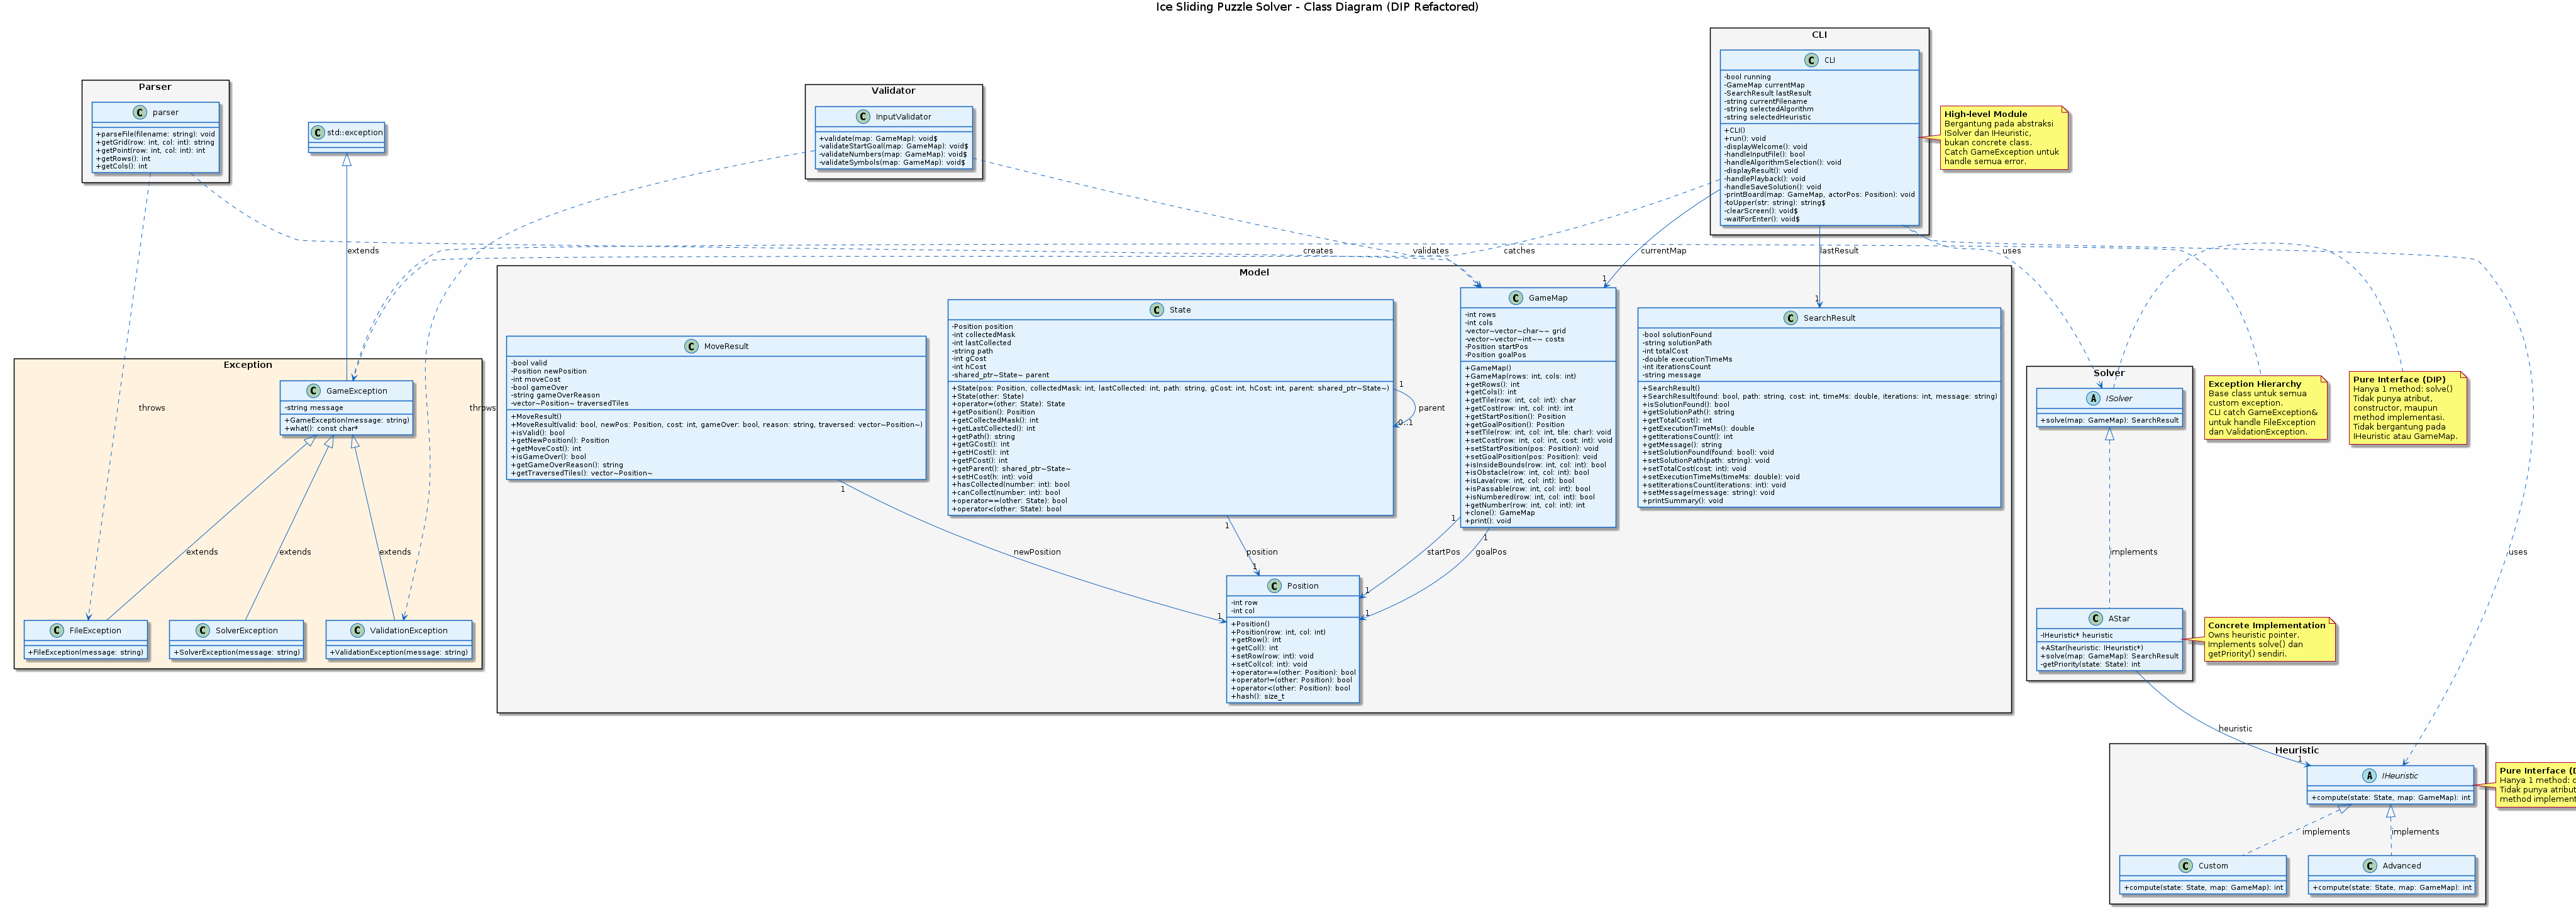
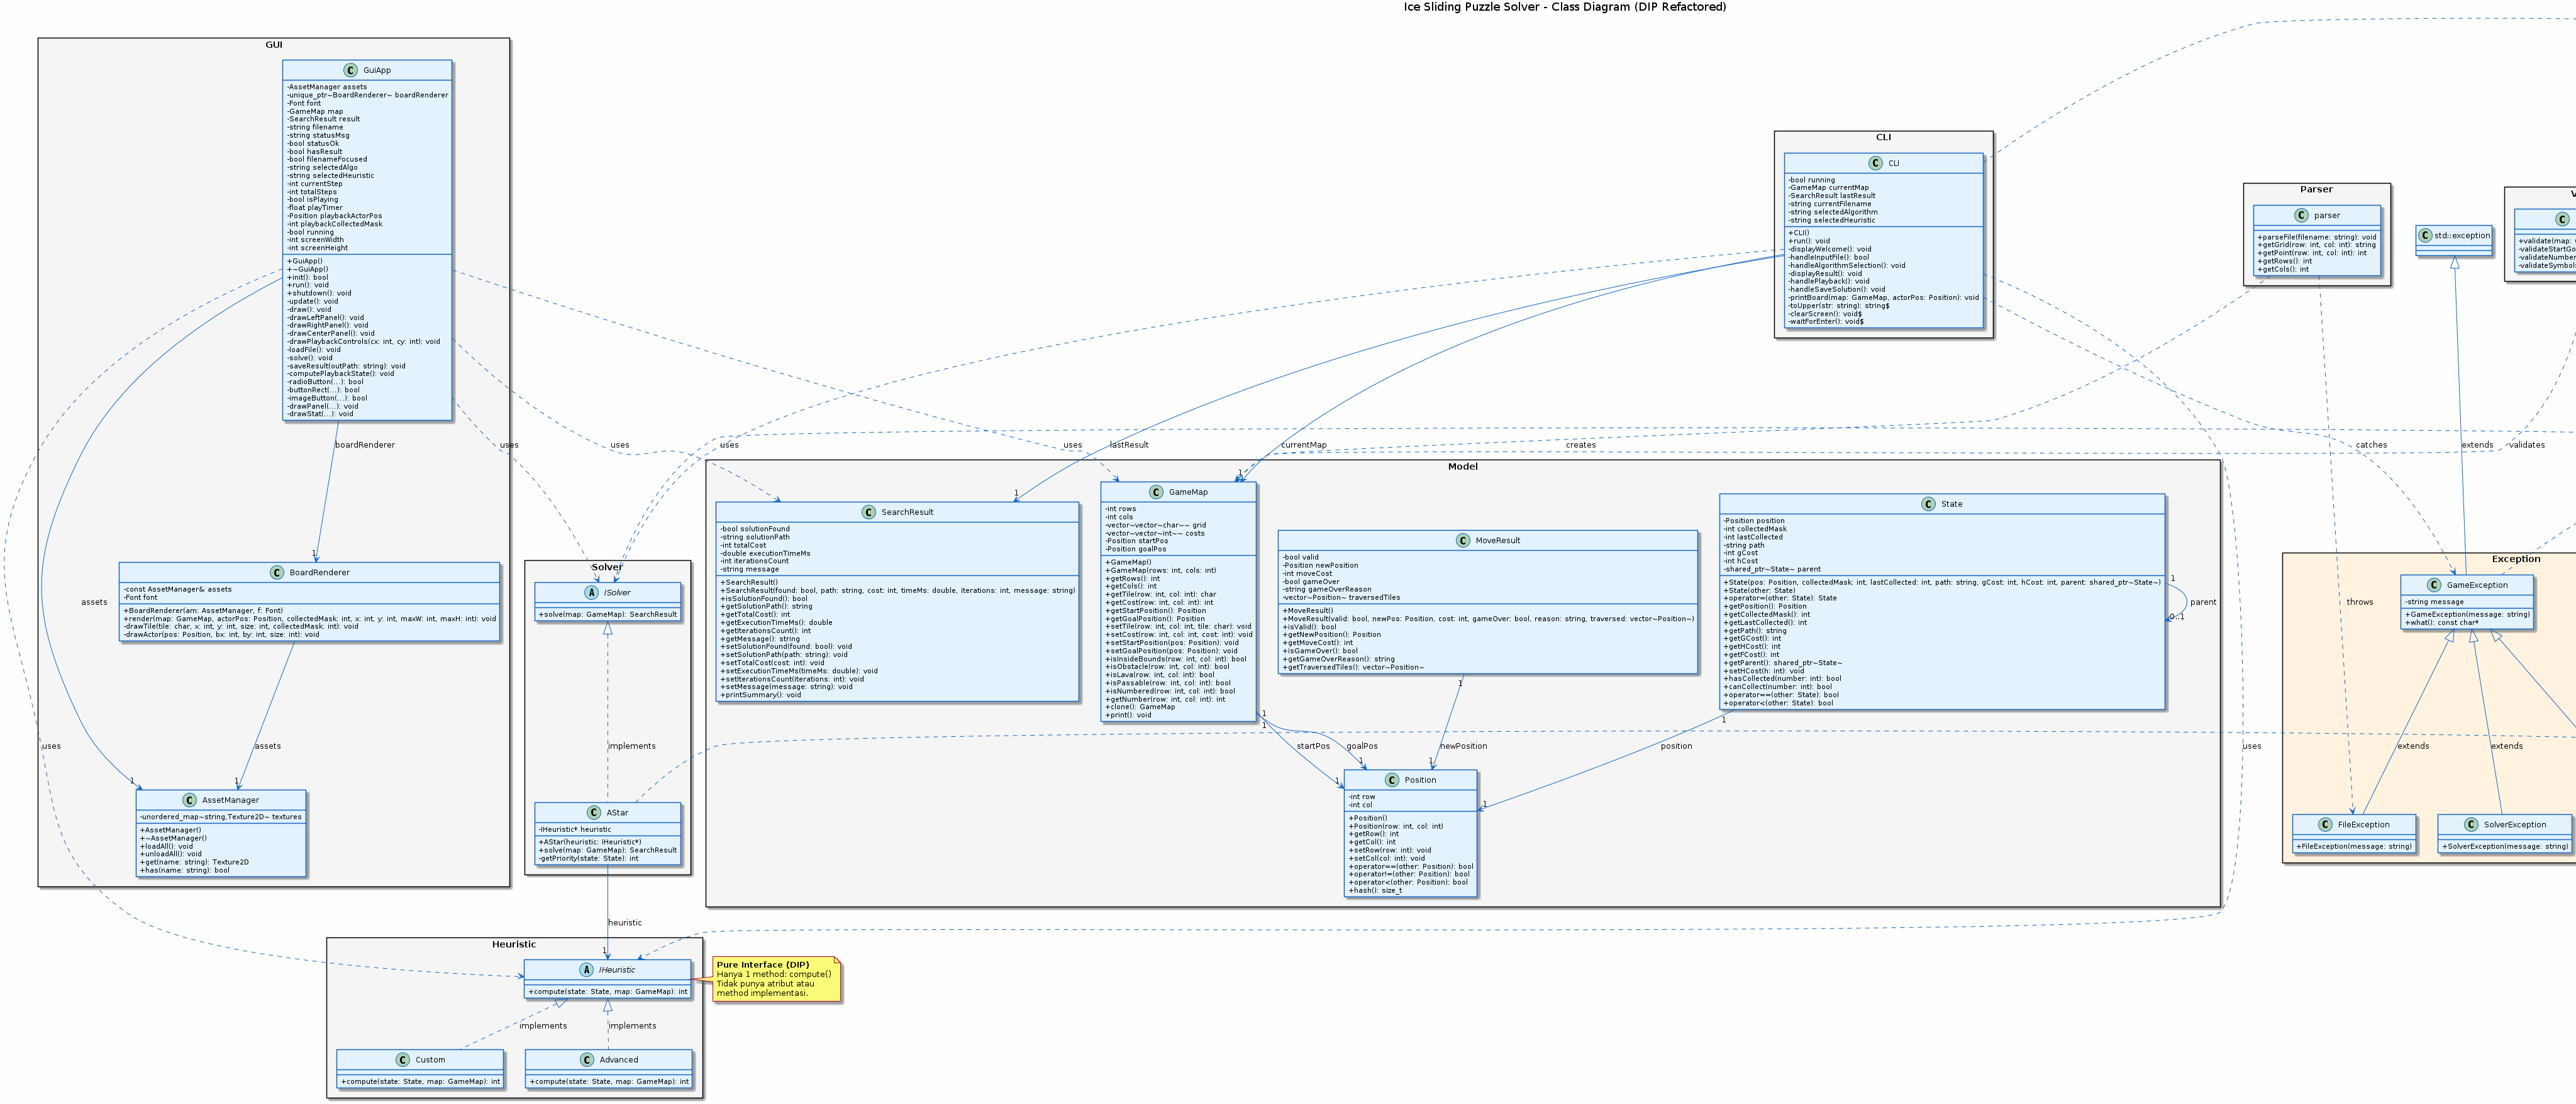
fix: bug save gagal ketika folder save tidak ada (sekarang auto create folder save)

diff --git a/src/utils/SolutionSaver.cpp b/src/utils/SolutionSaver.cpp
@@ -3,6 +3,7 @@
 #include "model/State.hpp"
 #include <fstream>
 #include <iostream>
+#include <filesystem>
 
 static void writeBoard(std::ofstream& file, const GameMap& map, const Position& actorPos, int collectedMask) {
     for (int i = 0; i < map.getRows(); ++i) {
@@ -34,6 +35,11 @@ void SolutionSaver::save(const SearchResult& result, const GameMap& map,
                          const std::string& filename) {
     std::string actualPath = filename;
     if (actualPath.find('/') == std::string::npos && actualPath.find('\\') == std::string::npos) {
+        std::string folder = "saves";
+        if (!std::filesystem::exists(folder)) {
+            std::filesystem::create_directory(folder);
+            std::cout << ">> Folder 'saves' dibuat untuk menyimpan solusi.\n";
+        }
         actualPath = "saves/" + actualPath;
     }
     std::ofstream file(actualPath);